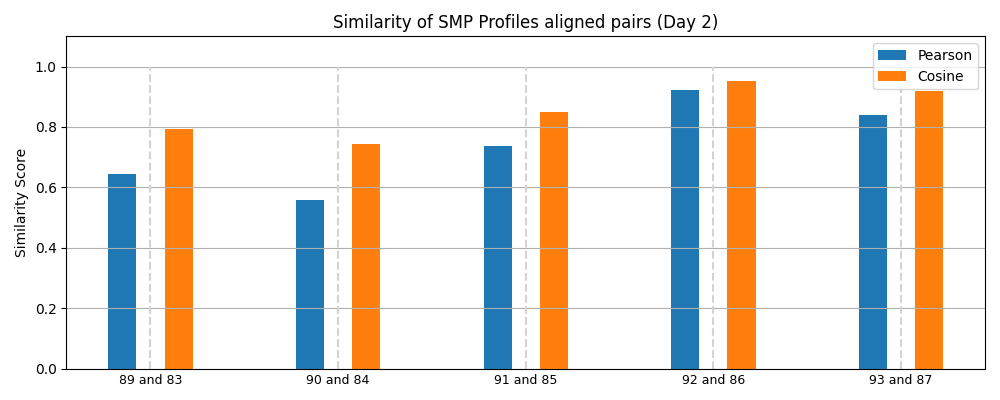
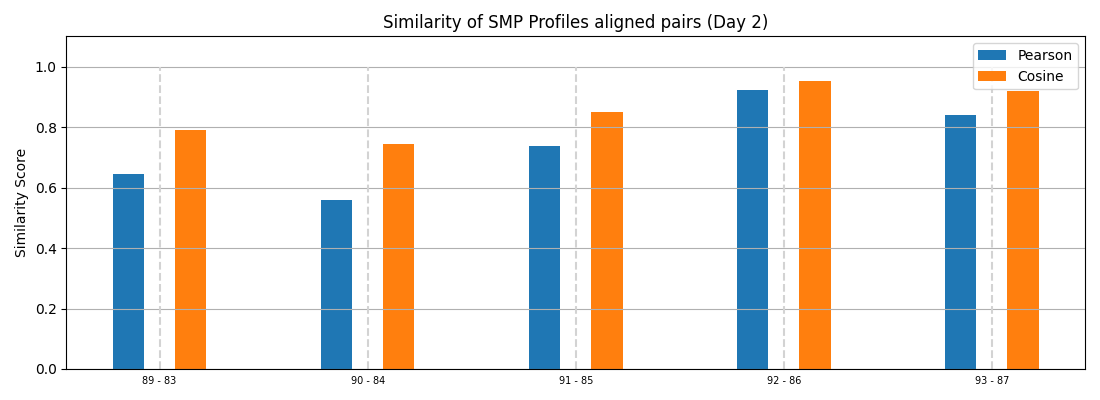
solved labels

diff --git a/code_SMP/similarity.py b/code_SMP/similarity.py
@@ -57,7 +57,7 @@ def plot_similarity_scores(data, day, alignment, save=True):
     cosine = [entry["cosine"] for entry in data]
     width = 3
 
-    fig, ax = plt.subplots(figsize=(10, 4))
+    fig, ax = plt.subplots(figsize=(11, 4))
     ax.set_title(f"Similarity of SMP Profiles aligned {alignment} (Day {day})")
     ax.set_ylabel("Similarity Score")
     ax.set_ylim(0, 1.1)
@@ -66,7 +66,7 @@ def plot_similarity_scores(data, day, alignment, save=True):
     # background lines and labels
     for xi, label in zip(x, pair_labels):
         ax.plot([xi, xi], [0, 1], color='lightgray', linestyle='--')
-        ax.text(xi, -0.05, label, ha='center', fontsize=9) #change 0.05 to set labels lower if additional distance values
+        ax.text(xi, -0.05, label, ha='center', fontsize=7) #change 0.05 to set labels lower if additional distance values
 
     # plot bars
     ax.bar(x - width, pearson, width=width, label="Pearson")
@@ -114,7 +114,9 @@ if __name__ == "__main__":
             pearson, p_val, cosine = similarity(df8["force"].values, df20["force"].values)
 
             # get label and day info
-            label = f"{name8[-10:-8]} and {name20[-10:-8]}"
+            match1 = re.search(r"S\d{2}M\d{4}", name8)
+            match2 = re.search(r"S\d{2}M\d{4}", name20)
+            label = f"{match1.group()[-2:]} - {match2.group()[-2:]}"
             day = df8.attrs.get("date", 0)
 
             print(f"{label} (Day {day}):")
@@ -127,6 +129,7 @@ if __name__ == "__main__":
         for day in sorted(data_by_day):
             if data_by_day[day]:
                 plot_similarity_scores(data_by_day[day], day, alignment=aligned, save=True)
+
 
     # III: similarity scores for new pairs of profiles
     # pairs of profiles saved as lists in code_SMP/pairs.py
@@ -165,7 +168,10 @@ if __name__ == "__main__":
         pearson, p_val, cosine = similarity(df1["force"].values, df2["force"].values)
 
         # Simpler Label z. B. 53 and 56
-        label = f"{name1[-10:-8]} and {name2[-10:-8]}"
+         # get label and day info
+        match1 = re.search(r"S\d{2}M\d{4}", name1)
+        match2 = re.search(r"S\d{2}M\d{4}", name2)
+        label = f"{match1.group()[-2:]} - {match2.group()[-2:]}"
         day = df1.attrs.get("date", 0)
 
         print(f"{label} (Day {day}):")
